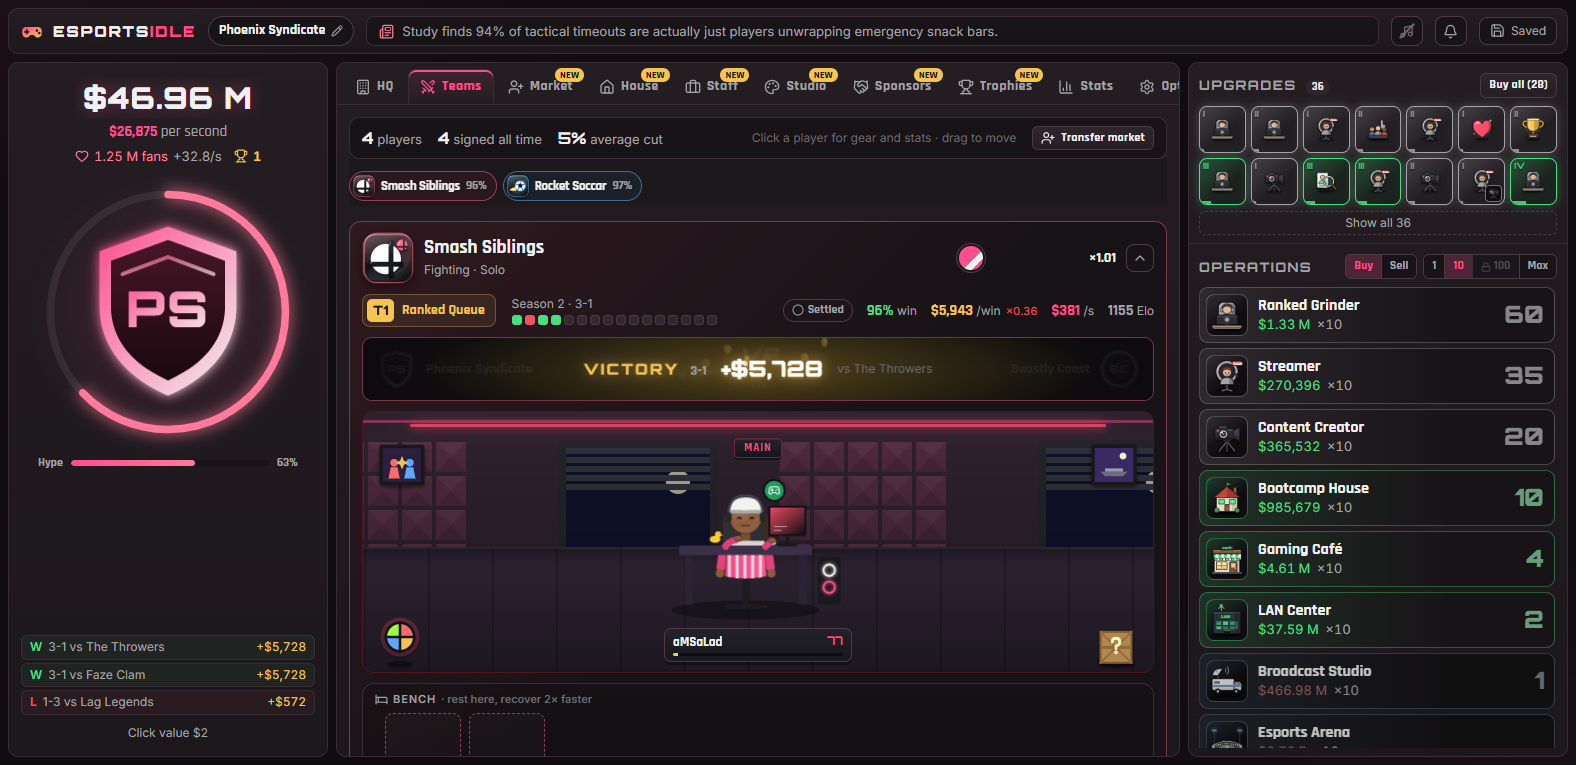
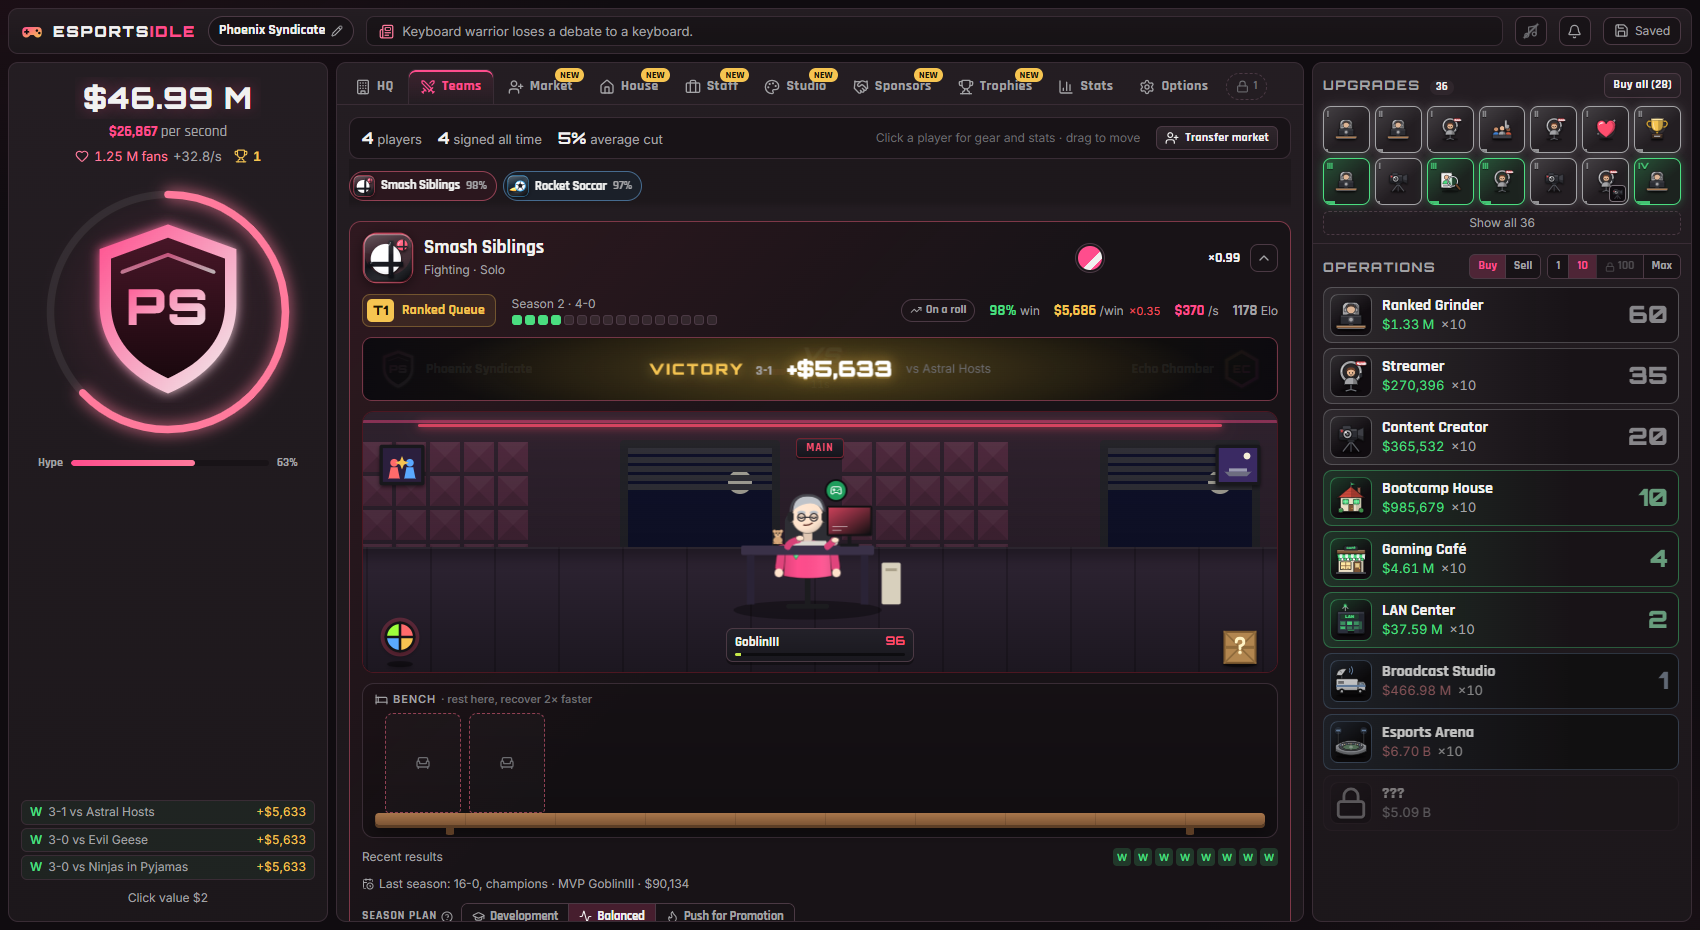
Refresh the README for 0.2.0 with a new Teams page screenshot

Changed region(s): [[0.0, 0.0, 0.9949, 0.9922], [0.9638, 0.7817, 0.9949, 0.8418], [0.6218, 0.2706, 0.6529, 0.3007]]

diff --git a/README.md b/README.md
@@ -6,7 +6,11 @@ Click the logo to build crowd hype, scout mechanical prodigies on the transfer m
 
 **Play directly in your browser:** https://hazzjc.github.io/esportsidle/
 
-![Esports Idle Gameplay](docs/screenshot.png)
+![Esports Idle: the Teams page, with a squad at their desks and a match won](docs/screenshot.png)
+
+## A Guided First Run
+
+New orgs are walked through the whole game in order. A quest line on the HQ console opens each system as it explains it (the transfer market, Staff, the House, the Pixel Studio, Sponsors), shows what it is waiting on, and pulses whatever to press next. Every tutorial step and quest has a **Show me** button. Finishing a quest earns a perk for that run.
 
 ## The Core Loop
 
@@ -16,21 +20,24 @@ Esports Idle runs on two interlocking engines:
 Sign procedurally generated players across multiple competitive titles, from solo fighters in *Smash Siblings* to tactical 5v5 squads in *Counter-Strike* parodies.
 * **Scout and Sign**: Hunt the transfer market for generational talent. Every rookie comes with their own stat distribution, skill ceiling, personality traits, and salary demands.
 * **Kit Out Rigs**: Upgrade 10 gear slots per player across 16 tiers, taking your roster from hand-me-down CRT monitors to quantum computing clusters and lucky charm desk ornaments.
-* **Manage the Season**: Set team tactical plans (Development, Balanced, or Push for Promotion). Chase promotion, dodge relegation, manage player burnout, and capture season championship trophies.
+* **Manage the Season**: Set team tactical plans (Development, Balanced, or Push for Promotion). Drag players between the lineup and the bench, rest the injured, chase promotion on team Elo, dodge relegation, and capture season championship trophies.
+* **Watch Them Play**: Every team has its own room that follows your house, dressed with props parodying its game. Players type at their desks with their lucky charm beside them, and each match shows your crest against the next opponent's, ending in a victory card that counts up the prize money.
 * **Navigate Rivalries**: Face off against persistent rival organizations that track your head-to-head records and trigger high-stakes grudge matches.
 
 ### 2. The Commercial Empire
 Matches need prize money, and players need salaries. Build an automated business network that generates cash every second, even when you are away:
 * **16 Tiered Operations**: Scale your revenue from solo Ranked Grinders and Streamers up to regional Bootcamp Houses, LAN Centers, and Multiverse Arenas.
+* **Staff**: Hire a Coach, Chef, Scout, Analyst, Talent Agent, Social Media Manager and Merch Designer. Your first hire of each role brings a quality-of-life tool, such as buying 10 or 100 at a time, Max, and Buy all upgrades.
+* **The House**: Move from a garage up to an orbital station, fill each house with decor, and get a move-in card every time the org outgrows its home.
 * **Custom Pixel Studio**: Design your own crest, logo, and jersey patterns inside the built-in pixel editor. Your artwork appears directly on player jerseys and in your official merch shop.
 * **Merch Store**: Launch 10 product lines, balance pricing sweet spots against market trends, and capitalize on viral hype waves.
-* **Sponsorship Deals**: Sign contracts with 36 parody brands across 12 categories. Chase performance bonuses, balance brand exclusivity, and decide whether risky crypto sponsorships are worth the gamble.
+* **Sponsorship Deals**: Start with a choice of three snack brands, then sign contracts with 36 parody brands across 12 categories. Chase performance bonuses, balance brand exclusivity, and decide whether risky crypto sponsorships are worth the gamble.
 
 ## Hype, Drama, and Metagame
 
 * **Logo Clicker and Click Chains**: Clicking your team crest fills the hype meter to spark *Crowd Goes Wild* multipliers. Pop floating hype bubbles in real time to stack chain bonuses up to 20x.
-* **Hype Drops and World Events**: Click golden drops for sudden cash spikes, tournament bracket invites, and viral surges. Respond to balance patches, player contract drama, and hardware shortages.
-* **Prestige and Legacy**: When your org reaches the top, sell the franchise to earn Legacy Points. Unlock permanent perks on a 37-node Legacy Tree, pick unique Founding Charters, carry forward franchise players, and tackle themed challenge runs.
+* **Hype Drops and World Events**: Click golden drops for sudden cash spikes, tournament bracket invites, and viral surges. Enter invitationals with a cash stake and the odds in plain view. Respond to balance patches, player contract drama, and hardware shortages.
+* **Prestige and Legacy**: When your org reaches the top, sell the franchise to earn Legacy Points. Unlock permanent perks on a 45-node Legacy Tree, pick unique Founding Charters, carry forward franchise players, and tackle themed challenge runs.
 
 ## Saves and Privacy
 

diff --git a/PATCH_NOTES.md b/PATCH_NOTES.md
@@ -19,6 +19,15 @@
 
 ## Pending Changes
 
+### README refresh and the v0.2.0 GitHub release [Status: Pending]
+
+* **The Issue / Motivation**: The README still described 0.1.0: nothing about the guided first run, Staff tools, team rooms, match fixtures or the House, and its Legacy Tree count (37 nodes) was stale. The hero screenshot cut off the tab bar. 0.2.0 also had no GitHub release.
+* **What Changed**:
+  * `docs/screenshot.png` is a fresh capture of the Teams page (squad at their desks, victory card, full tab bar) from a throwaway headless Chrome profile, so no real save was involved.
+  * `README.md` gains a "A Guided First Run" section and bullets for team rooms and fixtures, lineup and bench management, Staff tools, the House, the starter sponsorship choice and invitationals. The Legacy Tree is ~~37~~ 45 nodes, matching `LEGACY_NODES`.
+  * The `v0.2.0` tag and GitHub release are created from `main` after this merges, with notes drawn from `CHANGELOG.md`.
+  * No game, economy or save changes.
+
 ### Fix the sound debounce that blocked the 0.2.0 deployment [Status: Committed]
 *Commit*: `7f8a7bd` (Oct 3 2026)
 
